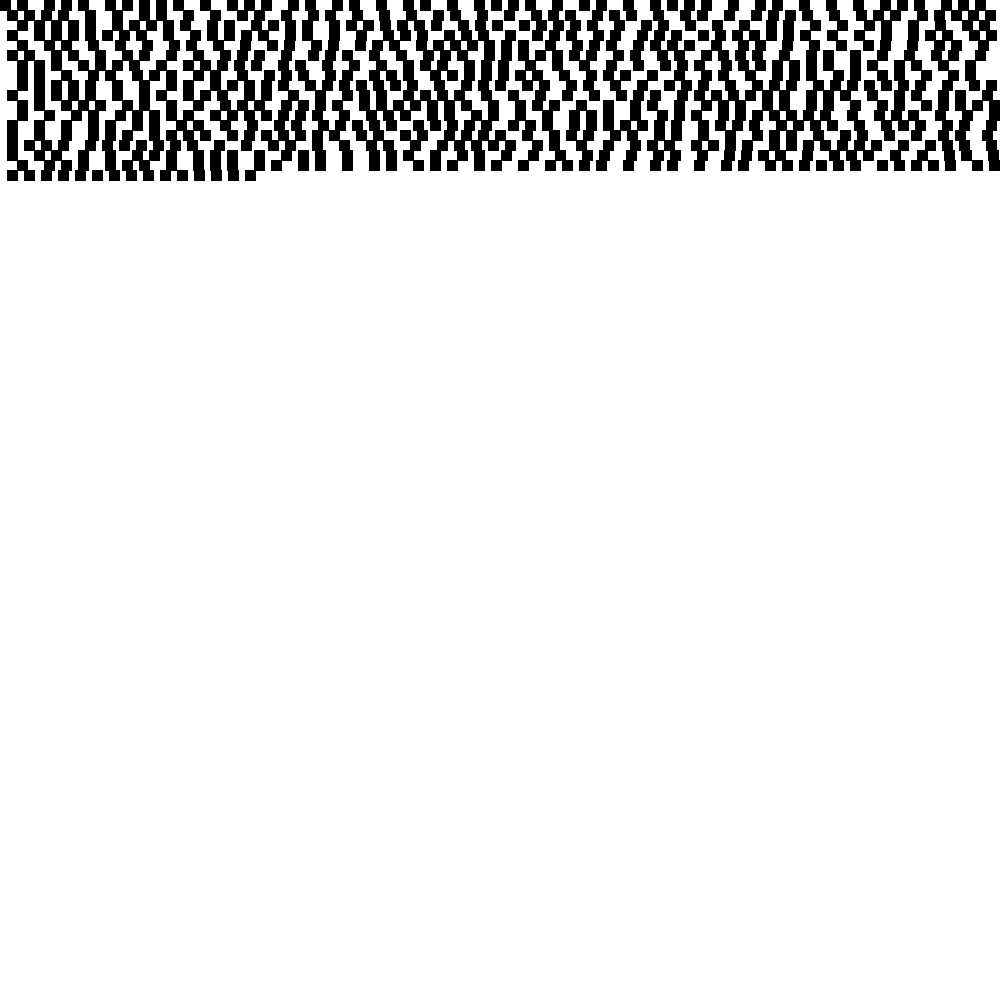
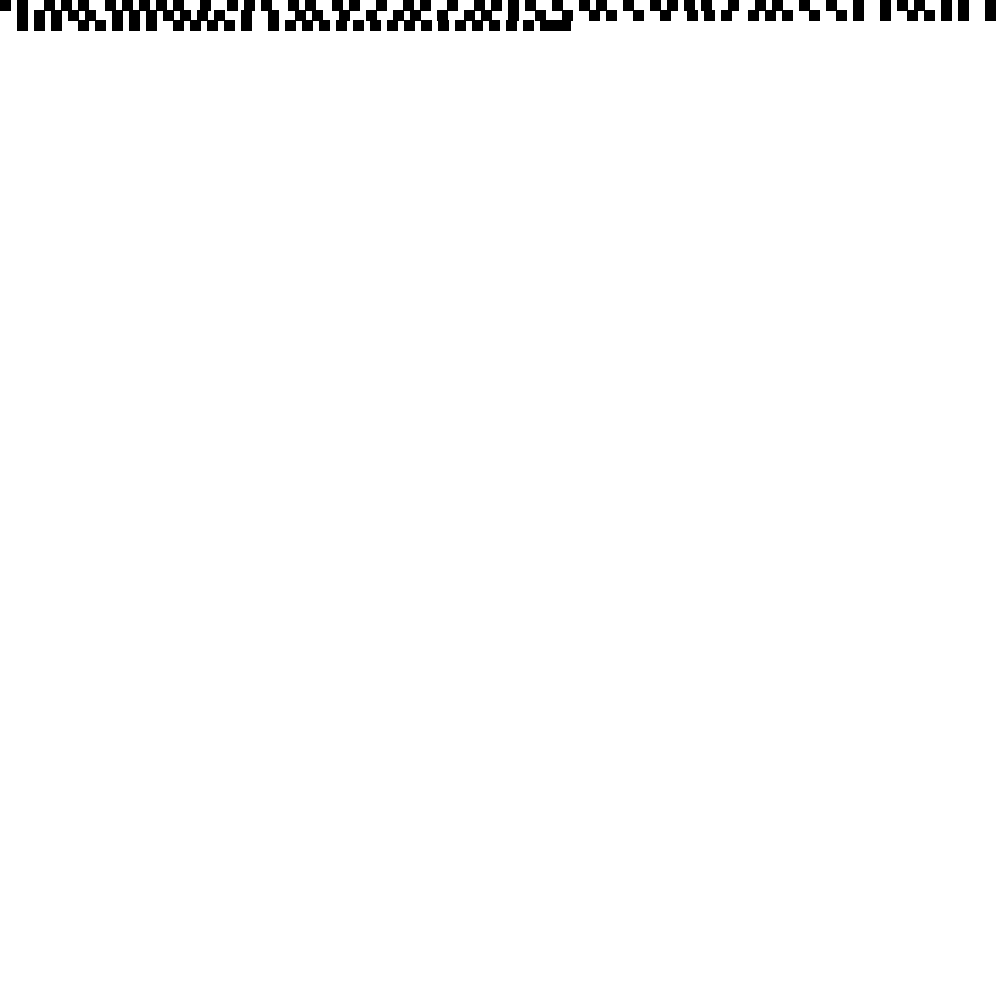
Added basic functionality to the readPDC function

Changed region(s): [[0.0, 0.0, 1.0, 0.186]]

diff --git a/src/PDCode.c b/src/PDCode.c
@@ -20,29 +20,36 @@ int readPDC(int point_size, unsigned int distance_count, unsigned int* distances
 
 int main(int argc, char* argv[]) {
     int testWidth = 1000, testHeight = 1000;
-    uint8_t* testData;
+    uint8_t* testImg;
 
-    testData = (uint8_t*)calloc(testWidth*testHeight*3, 1);
+    testImg = (uint8_t*)calloc(testWidth*testHeight*3, 1);
 
     for (int y = 0; y < testHeight; y++) {
         for (int x = 0; x < testWidth; x++) {
             int pos = (y*testWidth + x) * 3;
 
-            *(testData + pos + 0) = 255;
-            *(testData + pos + 1) = 255;
-            *(testData + pos + 2) = 255;
+            *(testImg + pos + 0) = 255;
+            *(testImg + pos + 1) = 255;
+            *(testImg + pos + 2) = 255;
         
         }
     }
 
     unsigned int distances[] = {7, 17};
-    uint8_t* data = "Hello world!\n How are you doing Today? Wie geht es dir? Mir geht es gut! Der Test war erfolgreich!\0";
+    uint8_t* data = "Hello, world!\0";
 
-    writePDC(10, 2, distances, 100, data, testData, testWidth, testHeight);
+    writePDC(10, 2, distances, 15, data, testImg, testWidth, testHeight);
 
-    stbi_write_png("test.png", testWidth, testHeight, 3, testData, testWidth*3);
+    stbi_write_png("test.png", testWidth, testHeight, 3, testImg, testWidth*3);
 
-    free(testData);
+    uint8_t* recv_data = NULL;
+    unsigned int recv_data_size = 0;
+
+    readPDC(10, 2, distances, recv_data, &recv_data_size, testImg, testWidth, testHeight);
+
+    printf("Image contains %d bytes of data\n", recv_data_size);
+
+    free(testImg);
 
     return 0;
 }
@@ -96,29 +103,86 @@ int writePDC(int point_size, unsigned int distance_count, unsigned int* distance
         printf(" %d %u\n", *(data + dbyte), dbyte);
     }
 
+    // write the end 
+    fillRect(currentX, currentY, point_size*3, point_size, img, img_width, img_height, current_color, 3);
+
     return 0;
 }
 
 int readPDC(int point_size, unsigned int distance_count, unsigned int* distances, uint8_t* data, unsigned int* data_size, uint8_t* img, int img_width, int img_height) {
-    // we know that the first point is going to be black so we can skipp. start in the middel of the point 
-    int readX = point_size, readY = point_size / 2;
-    int current_distance = 0;
-    _Bool was_white = 0;
-    _Bool was_black = 0;
+    int readX = 0, readY = point_size / 2;
+    int messured_distance = 0;
+    int threshold = 50;
+    int last_color = 0;
+    int current_color = 0;
+
+    uint8_t current_byte = 0;
+
 
     // messure the distance
-    // TODO make it compare to all colors. And make it look for black enouth not just black
-    while (1)  {
-        current_distance ++;
+    for (int interartions = 0;;)  {
+        messured_distance++;
 
-        readY ++;
+        readX ++;
 
-        // check if the pixel is white. Do that becouse otherwise we could se the point that we left
-        // TODO make it check all values and look for white enouth not just white
-        if (*(img + xyToPixelCoords(readX, readY, img_width, 3)) == 255)
-            was_white = 1;
-        else if (*(img + xyToPixelCoords(readX, readY, img_width, 3)) == 0)
-            was_black = 1;
-    } ;
+        // check if we have to jump to a new line and reset x
+        if (readX + point_size > img_width) {
+            readY += point_size;
+            // no plus point size becouse we start at the edge of the image
+            readX = 0;
+            // also reset the distance
+            messured_distance = 0;
+            printf("newline\n");
+        }
 
+        // check what color the pixel has
+        // TODO make it check all values
+        if (*(img + xyToPixelCoords(readX, readY, img_width, 3)) >= 255 - threshold)
+            current_color = 1;
+        else if (*(img + xyToPixelCoords(readX, readY, img_width, 3)) <= threshold)
+            current_color = 0;
+
+        // if the last color was white and now its black we have a distance!
+        if (last_color == 1 && current_color == 0) {
+            messured_distance = messured_distance - point_size;
+            (*data_size)++;
+
+            // only increase interations when wehre actulay reading somthing 
+            interartions++;
+
+            unsigned int distance = 0;
+
+            // figure out what distance it should be
+            // set best distance diference to a big ass value so everything else is smaller 
+            for (int i = 0, bestdd = 2147483647; i < distance_count; i++) {
+                // compare the messured distance to every distance that we have and chose the one thats nearest
+                if (abs(messured_distance - (int)*(distances + i)) < bestdd) {
+                    bestdd = abs(messured_distance - (int)*(distances + i));
+                    distance = i;
+                }
+            }
+            printf("messured: %d closest: %u\n", messured_distance, distance);
+            
+            if (interartions % 8 == 0) {
+                printf("byte: %d i: %d\n", current_byte, interartions);
+                current_byte = 0;
+            }
+
+            // update the current byte TODO update for more than binary
+            current_byte = (current_byte << 1) | distance;
+
+            messured_distance = 0;
+        }
+
+        // A point distance code is terminated when a black point biger than 2 times point size is there then we reached the end
+        if (messured_distance >= 2*point_size && current_color == 0 && last_color == 0) 
+            break;
+
+        last_color = current_color;
+    };
+
+    // data size is in bytes but we saved it in bits
+    *data_size = *data_size/8;
+
+    return 0;
 }
